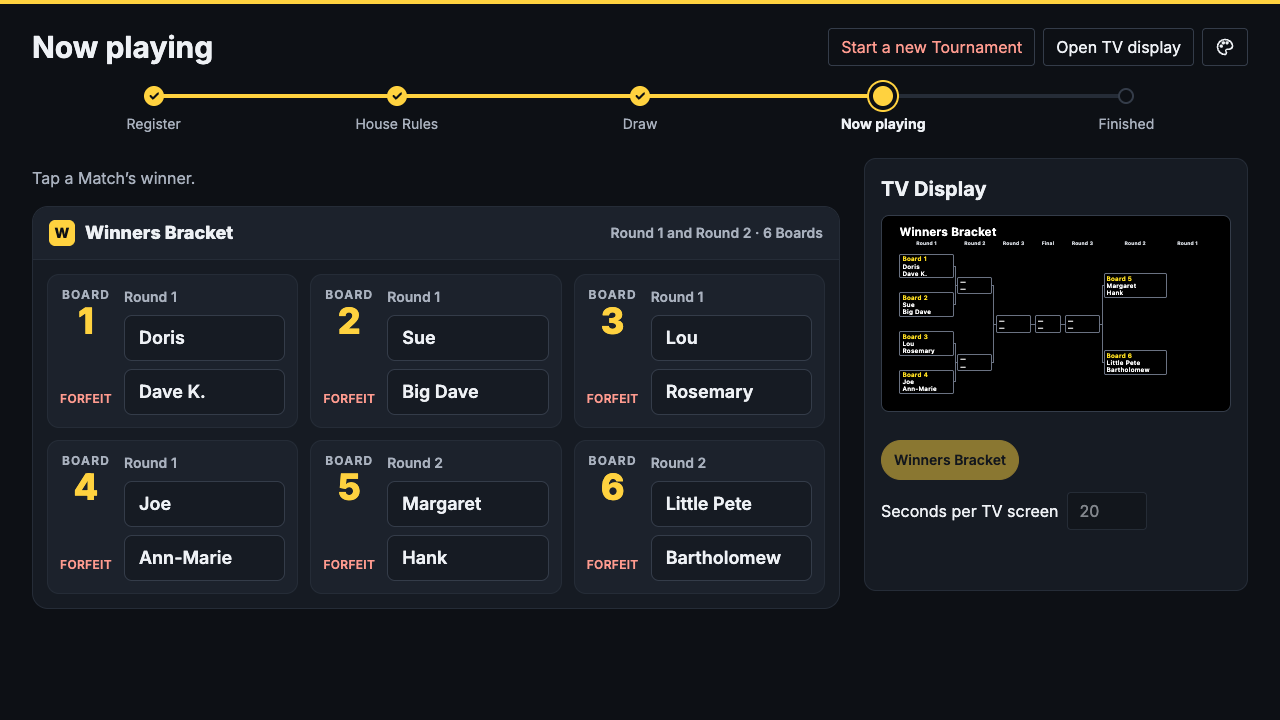
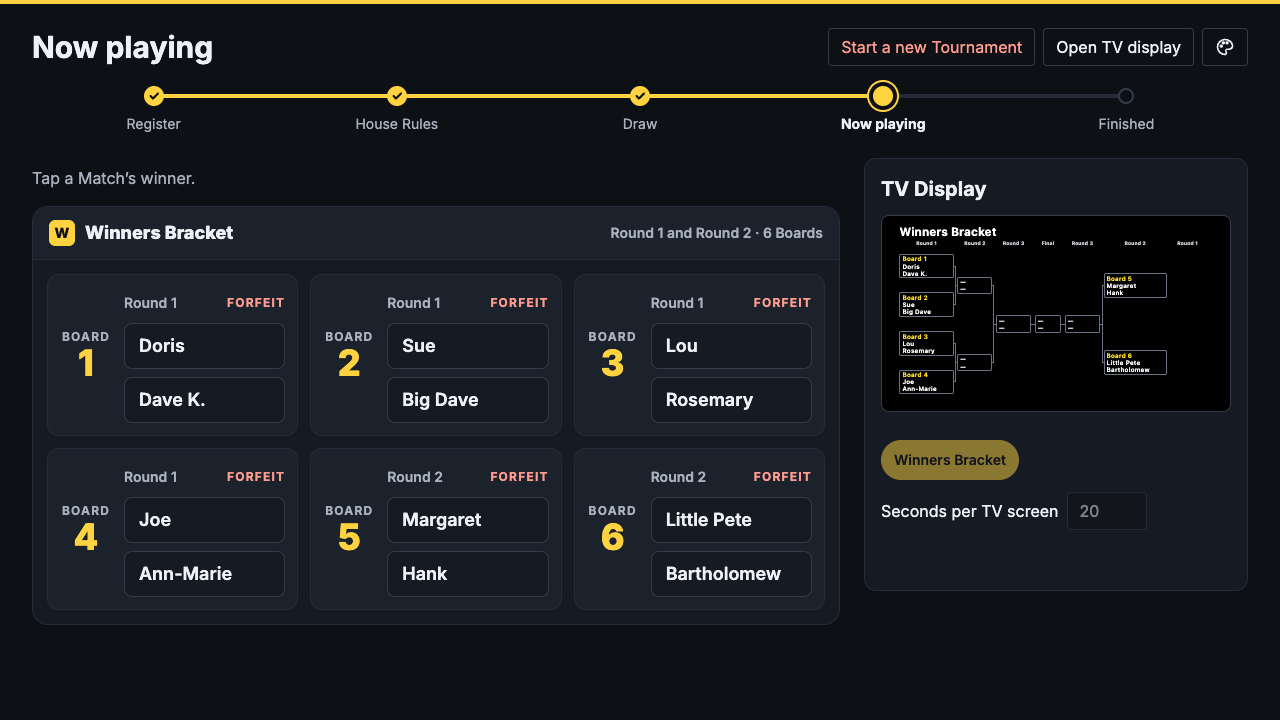
Centre each tile's Board, put Forfeit beside the Round, and darken the Board number in Light (#98)
A Match tile's top line holds its Round and, at its end, the Forfeit; the
line keeps its height without them, so Start moves nothing. The Board, its
label close above its number, sits in the middle of the tile beside both
lines. The number takes a theme colour of its own, board-number: near-black
in Light, in place of the accent's murky brown, and yellow as before in Dark.

diff --git a/src/organizer/BracketMatches.tsx b/src/organizer/BracketMatches.tsx
@@ -118,7 +118,7 @@ const ForfeitButton = ({
 		<>
 			<button
 				type="button"
-				className="text-danger hover:bg-divider min-h-8 rounded-lg px-1.5 text-xs font-semibold tracking-wide uppercase"
+				className="text-danger hover:bg-divider -mr-1.5 min-h-8 rounded-lg px-1.5 text-xs font-bold tracking-widest uppercase"
 				onClick={() => dialog.current?.showModal()}
 			>
 				Forfeit
@@ -165,9 +165,11 @@ const playerSlots = {
 };
 
 /*
- * One Match's tile: its Board, large, and both Players one above the other, its Round above them when given.
- * Once Started, a Match with both Players known can be won by tapping either, or forfeited from beneath the
- * Board. The Forfeit comes after the Players in the tile's own order, so it is read and tabbed to last.
+ * One Match's tile. Its top line holds the Round, when given, and at its end the Forfeit, once the Match can be
+ * forfeited; the line keeps its height without them, so Start moves nothing. Beneath, the Players one above the
+ * other. Beside both lines, the Board, its label close above its large number, sits in the middle of the tile.
+ * Once Started, a Match with both Players known can be won by tapping either. The Forfeit comes after the
+ * Players in the tile's own order, so it is read and tabbed to last.
  */
 const MatchTile = ({
 	matchOnBoard: {
@@ -199,15 +201,21 @@ const MatchTile = ({
 		 * Relative, so the "vs" read out between the Players, drawn nowhere, stays inside the tile rather than
 		 * stretching the page below the list it scrolls in.
 		 */
-		<li className="border-divider bg-raised relative grid grid-cols-[3.25rem_minmax(0,1fr)] grid-rows-[auto_1fr] gap-x-3 gap-y-1 rounded-xl border p-3">
-			<span className="col-start-1 row-start-1 flex flex-col items-center">
+		<li className="border-divider bg-raised relative grid grid-cols-[3.25rem_minmax(0,1fr)_auto] grid-rows-[minmax(2rem,auto)_auto] gap-x-3 gap-y-1 rounded-xl border p-3">
+			<span className="col-start-1 row-span-2 row-start-1 flex flex-col items-center self-center">
 				<span className="text-muted text-xs font-bold tracking-widest uppercase">
 					Board
 				</span>{' '}
-				<span className="text-accent text-4xl leading-none font-extrabold">{board}</span>
+				<span className="text-board-number text-4xl leading-none font-extrabold">
+					{board}
+				</span>
 			</span>
-			<div className="col-start-2 row-span-2 row-start-1 flex flex-col gap-2">
-				{roundName && <span className="text-muted text-sm font-semibold">{roundName}</span>}
+			{roundName && (
+				<span className="text-muted col-start-2 row-start-1 self-center text-sm font-semibold">
+					{roundName}
+				</span>
+			)}
+			<div className="col-span-2 col-start-2 row-start-2 flex flex-col gap-2">
 				<MatchPlayer
 					player={playerA}
 					match={match}
@@ -225,7 +233,7 @@ const MatchTile = ({
 				/>
 			</div>
 			{canWin && (
-				<div className="col-start-1 row-start-2 self-end justify-self-center">
+				<div className="col-start-3 row-start-1 self-center">
 					<ForfeitButton
 						board={board}
 						players={[playerA, knownPlayerB]}

diff --git a/src/style.css b/src/style.css
@@ -19,6 +19,7 @@
 	--color-fill: var(--theme-fill);
 	--color-on-fill: var(--theme-on-fill);
 	--color-accent: var(--theme-accent);
+	--color-board-number: var(--theme-board-number);
 	--color-danger: var(--theme-danger);
 	--color-on-danger: var(--theme-on-danger);
 	--color-scrim: var(--theme-scrim);
@@ -29,7 +30,8 @@
  * What each theme colour is for: the page behind everything (canvas), a box on it (panel), a button or a row
  * standing out from its box (raised), a quiet rule between rows (divider), a control's outline (line), text
  * (ink), secondary text (muted), text for what hasn't happened yet (faint), the yellow of a main button (fill)
- * and the text on it (on-fill), text in the theme's accent, such as a link (accent), a warning or destructive
+ * and the text on it (on-fill), text in the theme's accent, such as a link (accent), a Match tile's large Board
+ * number (board-number), a warning or destructive
  * action (danger) and the text on it (on-danger), and the shade behind an open dialog (scrim). Every text
  * colour reads at 4.5:1 or more on the backgrounds it is used on (e2e/theme-contrast.spec.ts). color-scheme
  * tells the browser which way to draw its own controls, such as a number box's arrows.
@@ -53,6 +55,7 @@
 		--theme-fill: #ffd23f;
 		--theme-on-fill: #161a22;
 		--theme-accent: #8a6500;
+		--theme-board-number: #161a22;
 		--theme-danger: #b42318;
 		--theme-on-danger: #ffffff;
 		--theme-scrim: rgb(16 24 40 / 0.45);
@@ -71,6 +74,7 @@
 		--theme-fill: #ffd23f;
 		--theme-on-fill: #0d1015;
 		--theme-accent: #ffd23f;
+		--theme-board-number: #ffd23f;
 		--theme-danger: #ff9b8f;
 		--theme-on-danger: #0d1015;
 		--theme-scrim: rgb(0 0 0 / 0.62);
